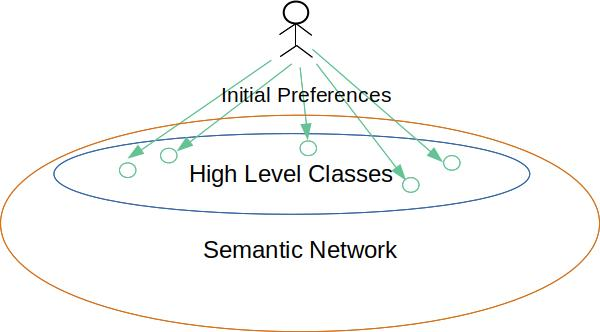
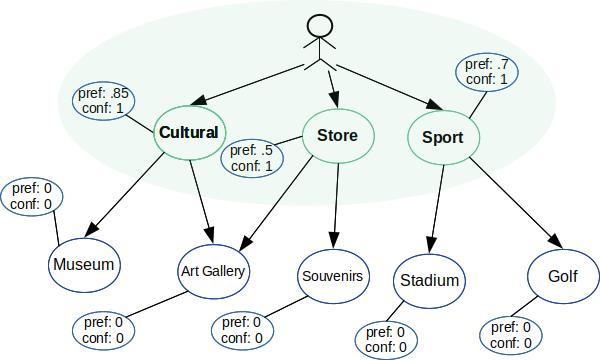
Add draw of preference propagation

diff --git a/Proposal.tex b/Proposal.tex
@@ -3,9 +3,10 @@
 
 In this section we describe the architecture and functioning of our proposed user-driven and context-aware Recommendation System. Figure \ref{fig:arquitecture} shows its components:
 \begin{itemize}
-    \item \textbf{Data Gathering Module}: User preferences are received by the system.
+    \item \textbf{Data Gathering Module}: User preferences are received by the system, explicitly (direct interaction) or implicitly (data mining, social network analysis, etc.).
     \item \textbf{User Interest Module}: The preferences are propagated from higher classes to lower classes.
     \item \textbf{Context Module}: The system receives information about the context of the user.
+    \item \textbf{Recommendation Module}: The system recommends a set of places.
 \end{itemize}
 
 \begin{figure}[h]
@@ -22,7 +23,7 @@ In this section we describe the architecture and functioning of our proposed use
 \subsection{Preliminaries}
 These definitions, abstractions and techniques are used:
 \begin{itemize}
-\item \textbf{Semantic Network}: Consists of the tourism ontology extended with user's preferences and context factors. There is a semantic network for each user.
+\item \textbf{Semantic Network}: Consists of the tourism ontology extended with user's preferences and context factors' relationships. There is a semantic network for each user.
 \item \textbf{Spreading Activation}: It is an algorithm able to take advantage of the hierarchical shape of the ontology (a Directed Acyclic Graph or DAG is formed) to propagate information related to the preferences over the different \textit{classes} of the semantic network.
 \item \textbf{Aging}: To increment recommendation \textit{serendipity} \cite{kotkov2016survey}, each Point of Interest or POI will age for a user each time it is recommended to them.
 \end{itemize}
@@ -36,22 +37,13 @@ Based on \cite{bahramian_abbaspour_claramunt_2017}, the proposed system extends 
     \item \textbf{Activation}: Taking into account the user's context, this value determines how feasible it is to go to the kind of places that belong to the node's ontology class.
 \end{itemize}{}
 Both \textit{preference} and \textit{confidence} are \textbf{persistent} node attributes, while \textit{activation} is a \textbf{transient} node attribute. As told before, the extended ontology is called \textit{semantic network}, and there is one instance for each system user.
-
-\subsubsection{Context factors} \label{section:context_factors}
-As told before, \textit{context factors} are entities that describe the characteristics of the user's context that could affect their decision to go to a specific place. These factors are: 
-\begin{itemize}
-    \item \textit{Weather} (sunny/cloudless, rainy or snowy)
-    \item \textit{Time} (early morning, morning, afternoon or night)
-    \item \textit{Day} (weekday or weekend)
-\end{itemize}
-Following the ideas from \cite{bahramian_abbaspour_claramunt_2017}, these context factors are linked to a subset of "high level" ontology classes, that generalize enough our domain. 
  
 \subsection{Preferences propagation} \label{section:preferences-propagation}
 Based on \cite{bahramian_abbaspour_claramunt_2017}, the steps for the preferences propagation are as follow:
 \begin{enumerate}
     \item User gives a set of initial preferences for the high level classes (see figure \ref{fig:initial_pref}).
     
-    \item Propagate preferences to the subclasses using formulas \ref{eq:preference} and \ref{eq:confidence}.
+    \item Propagate preferences to the subclasses using formulas \ref{eq:preference} and \ref{eq:confidence} (see figure \ref{fig:pref_prop}).
     
     \item Go back to step (1) if user wants to update preferences and start preferences propagation again from a specific node as source.
 \end{enumerate}
@@ -59,9 +51,25 @@ Based on \cite{bahramian_abbaspour_claramunt_2017}, the steps for the preference
 \begin{figure}[h]
 \centering
 \includegraphics[scale=0.5]{draws/initial_pref.jpg}
-\caption{Data gathering}
+\caption{Initial preferences example}
 \label{fig:initial_pref}
 \end{figure}
+
+\begin{figure}[h]
+\centering
+\includegraphics[scale=0.5]{draws/pref_spred.jpg}
+\caption{Preference propagation example, with propagation rate equals to 0.1}
+\label{fig:pref_prop}
+\end{figure}
+
+\subsection{Context factors} \label{section:context_factors}
+As told before, \textit{context factors} are entities that describe the characteristics of the user's context that could affect their decision to go to a specific place. Our system's factors are: 
+\begin{itemize}
+    \item \textit{Weather} (sunny/cloudless, rainy or snowy)
+    \item \textit{Time} (early morning, morning, afternoon or night)
+    \item \textit{Day} (weekday or weekend)
+\end{itemize}
+Following the ideas from \cite{bahramian_abbaspour_claramunt_2017}, these context factors are linked to a subset of "high level" ontology classes, that generalize enough our domain. 
 
 \subsection{Context-awareness} \label{section:context-awareness}
 Remembering the new definition of \textit{activation} on section \ref{section:semantic_network}, the formula \ref{eq:og_activation} is updated as follows:
